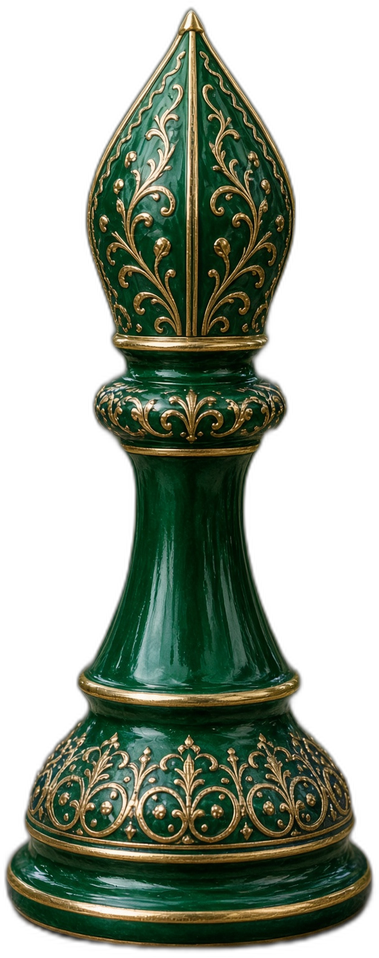
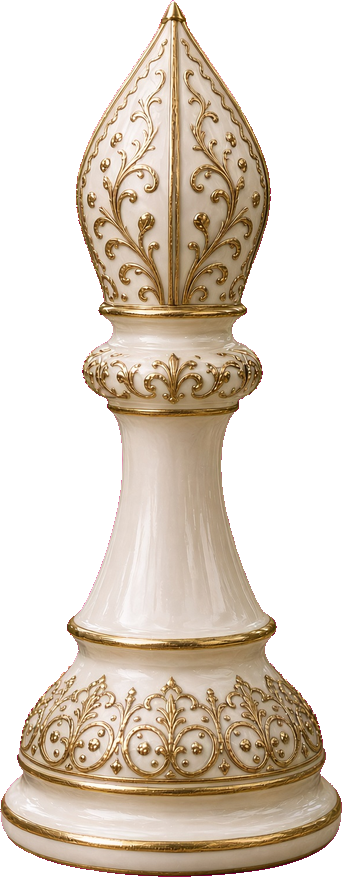
Change color on 1/2 of chess pieces.

diff --git a/board.html b/board.html
@@ -134,16 +134,16 @@ body{background-size:contain;background-position:center 58px}
 <div class="wrap">
 <div id="room-c4" hidden>
 <h1>Connect Four</h1>
-<p class="sub">You are cobalt. Emerald answers. Tap a column to drop.</p>
+<p class="sub">You are cobalt. Ivory answers. Tap a column to drop.</p>
 <div class="bar"><span class="msg" id="c4msg">Your turn</span><button type="button" onclick="c4New()">New game</button></div>
 <div class="frame"><div class="c4" id="c4board"></div></div>
 </div>
 <div id="room-ck" hidden>
 <h1>Garden Checkers</h1>
-<p class="sub">You are cobalt. Emerald answers. Jump when you can. Kings go both ways.</p>
+<p class="sub">You are cobalt. Ivory answers. Jump when you can. Kings go both ways.</p>
 <div class="bar"><span class="msg" id="ckmsg">Your turn</span><button type="button" onclick="ckNew()">New game</button></div>
 <div class="parlor">
-<div class="taken" id="ckBotTook"><span class="lab">Emerald took</span></div>
+<div class="taken" id="ckBotTook"><span class="lab">Ivory took</span></div>
 <div class="sqgrid" id="ckboard"></div>
 <div class="taken" id="ckYouTook"><span class="lab">You took</span></div>
 </div>
@@ -154,13 +154,13 @@ body{background-size:contain;background-position:center 58px}
 <button class="stand" type="button" onclick="standUp()">Back to the garden</button>
 </div>
 <h1>Garden Chess</h1>
-<p class="sub">You are cobalt with gold. Emerald answers. Tap a piece, then a square.</p>
+<p class="sub">You are cobalt with gold. Ivory answers. Tap a piece, then a square.</p>
 <div class="bar"><span class="msg" id="chmsg">Your turn</span><button type="button" onclick="chNew()">New game</button></div>
 <div id="stage">
 <div id="tableBoard">
 <div class="parlor">
-<div class="seat north" title="Emerald"></div>
-<div class="taken" id="chBotTook"><span class="lab">Emerald took</span></div>
+<div class="seat north" title="Ivory"></div>
+<div class="taken" id="chBotTook"><span class="lab">Ivory took</span></div>
 <div class="sqgrid" id="chboard"></div>
 <div class="taken" id="chYouTook"><span class="lab">You took</span></div>
 <div class="seat south" title="You"></div>
@@ -235,7 +235,7 @@ function c4Ai(){
   if(choice<0){ c4over=true; document.getElementById("c4msg").textContent="The board is full."; return; }
   r=c4Row(choice); c4g[r][choice]=2;
   w=c4Line(2);
-  if(w){ c4over=true; c4wins=w; document.getElementById("c4msg").textContent="Emerald connects four."; c4Paint(); return; }
+  if(w){ c4over=true; c4wins=w; document.getElementById("c4msg").textContent="Ivory connects four."; c4Paint(); return; }
   document.getElementById("c4msg").textContent="Your turn"; c4Paint();
 }
 
@@ -280,7 +280,7 @@ function ckPaint(){
     for(var i=0;i<arr.length;i++) h+='<div class="man '+cls+'" style="width:16px;height:16px"></div>';
     el.innerHTML=h;
   }
-  ckTray("ckBotTook", ckBotTook||[], "Emerald took", "redm");
+  ckTray("ckBotTook", ckBotTook||[], "Ivory took", "redm");
   ckTray("ckYouTook", ckYouTook||[], "You took", "blkm");
 }
 function ckSide(v){ if(v===1||v===3) return 1; if(v===2||v===4) return 2; return 0; }
@@ -414,7 +414,7 @@ function pieceSVG(p){
   return '<svg class="pcsvg" viewBox="0 0 32 32" xmlns="http://www.w3.org/2000/svg"><defs><linearGradient id="gW" x1="0" y1="0" x2="1" y2="1"><stop offset="0" stop-color="#7EB0F0"/><stop offset=".45" stop-color="#163A8A"/><stop offset="1" stop-color="#0B1F4A"/></linearGradient><linearGradient id="gB" x1="0" y1="0" x2="1" y2="1"><stop offset="0" stop-color="#7ED9B0"/><stop offset=".45" stop-color="#146B4A"/><stop offset="1" stop-color="#083322"/></linearGradient></defs><g fill="'+fill+'" stroke="'+gold+'" stroke-width="1.15" stroke-linejoin="round">'+body+'</g></svg>';
 }
 function pieceHTML(p){
-  var file="piece-"+(chWhite(p)?"w":"b")+"-"+p.toUpperCase()+".png?v=13";
+  var file="piece-"+(chWhite(p)?"w":"b")+"-"+p.toUpperCase()+".png?v=14";
   return '<img class="pcimg '+p.toUpperCase()+'" alt="" src="'+file+'">';
 }
 function chPaint(){
@@ -437,7 +437,7 @@ function chPaint(){
     for(var i=0;i<arr.length;i++) h+=pieceHTML(arr[i]);
     el.innerHTML=h;
   }
-  tray("chBotTook", chBotTook, "Emerald took");
+  tray("chBotTook", chBotTook, "Ivory took");
   tray("chYouTook", chYouTook, "You took");
 }
 function chWhite(p){ return p && p===p.toUpperCase(); }
